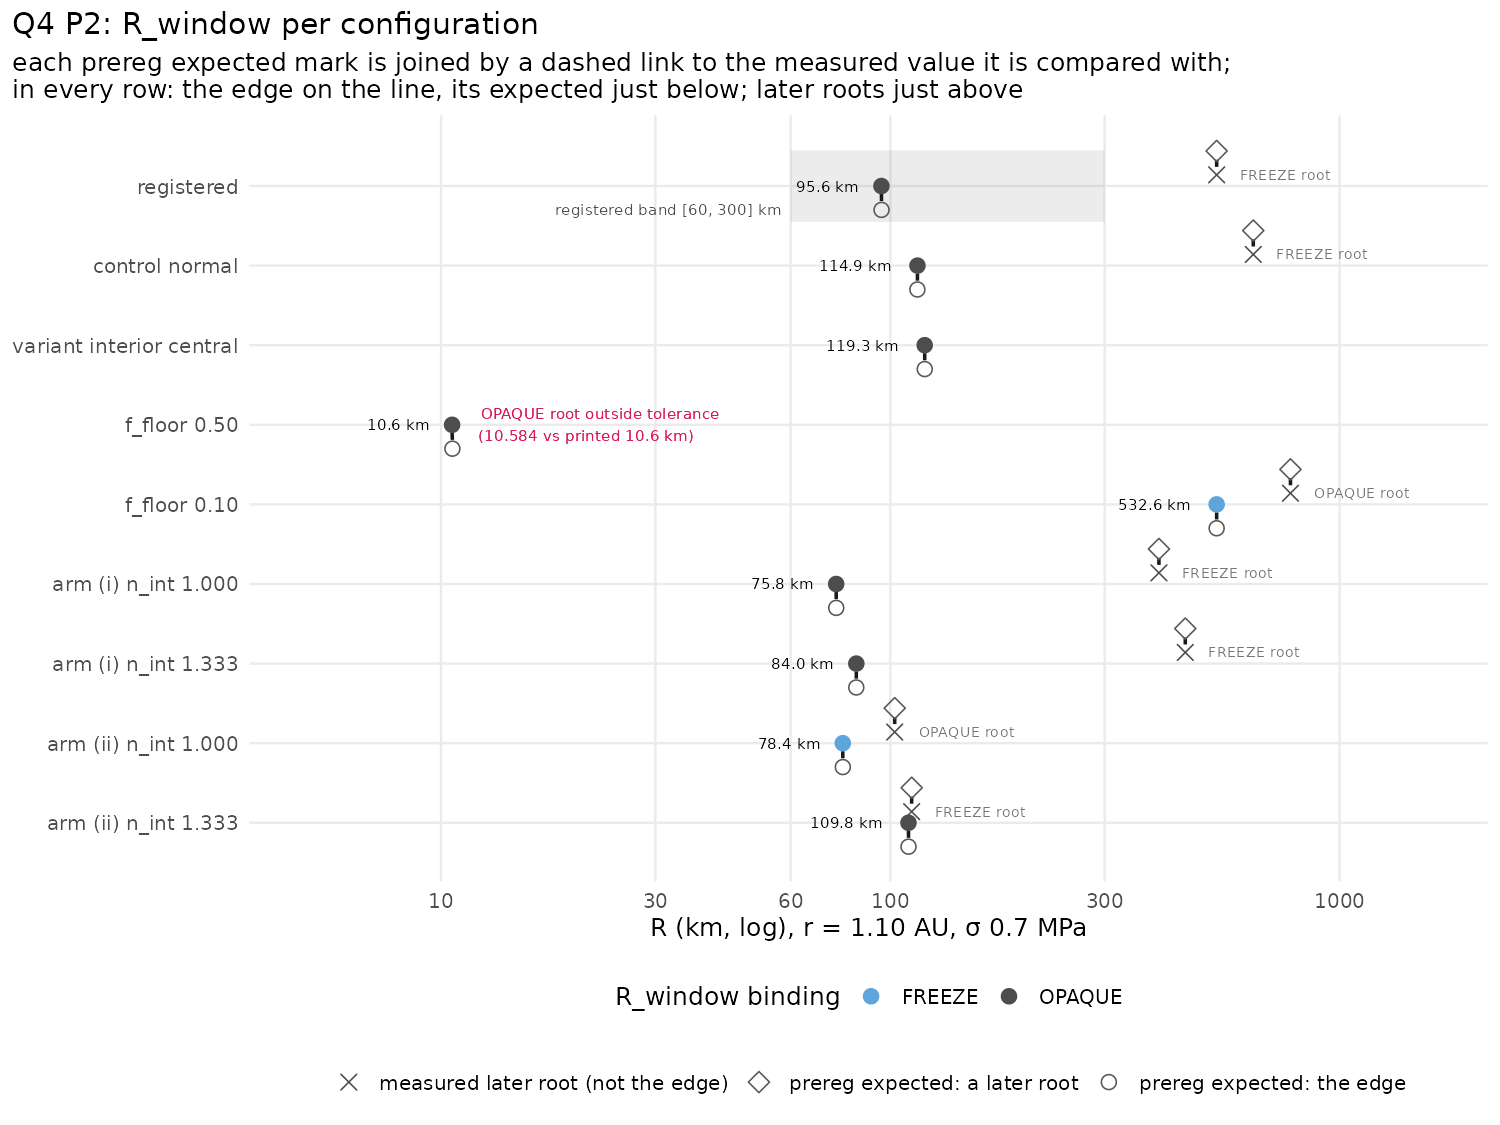
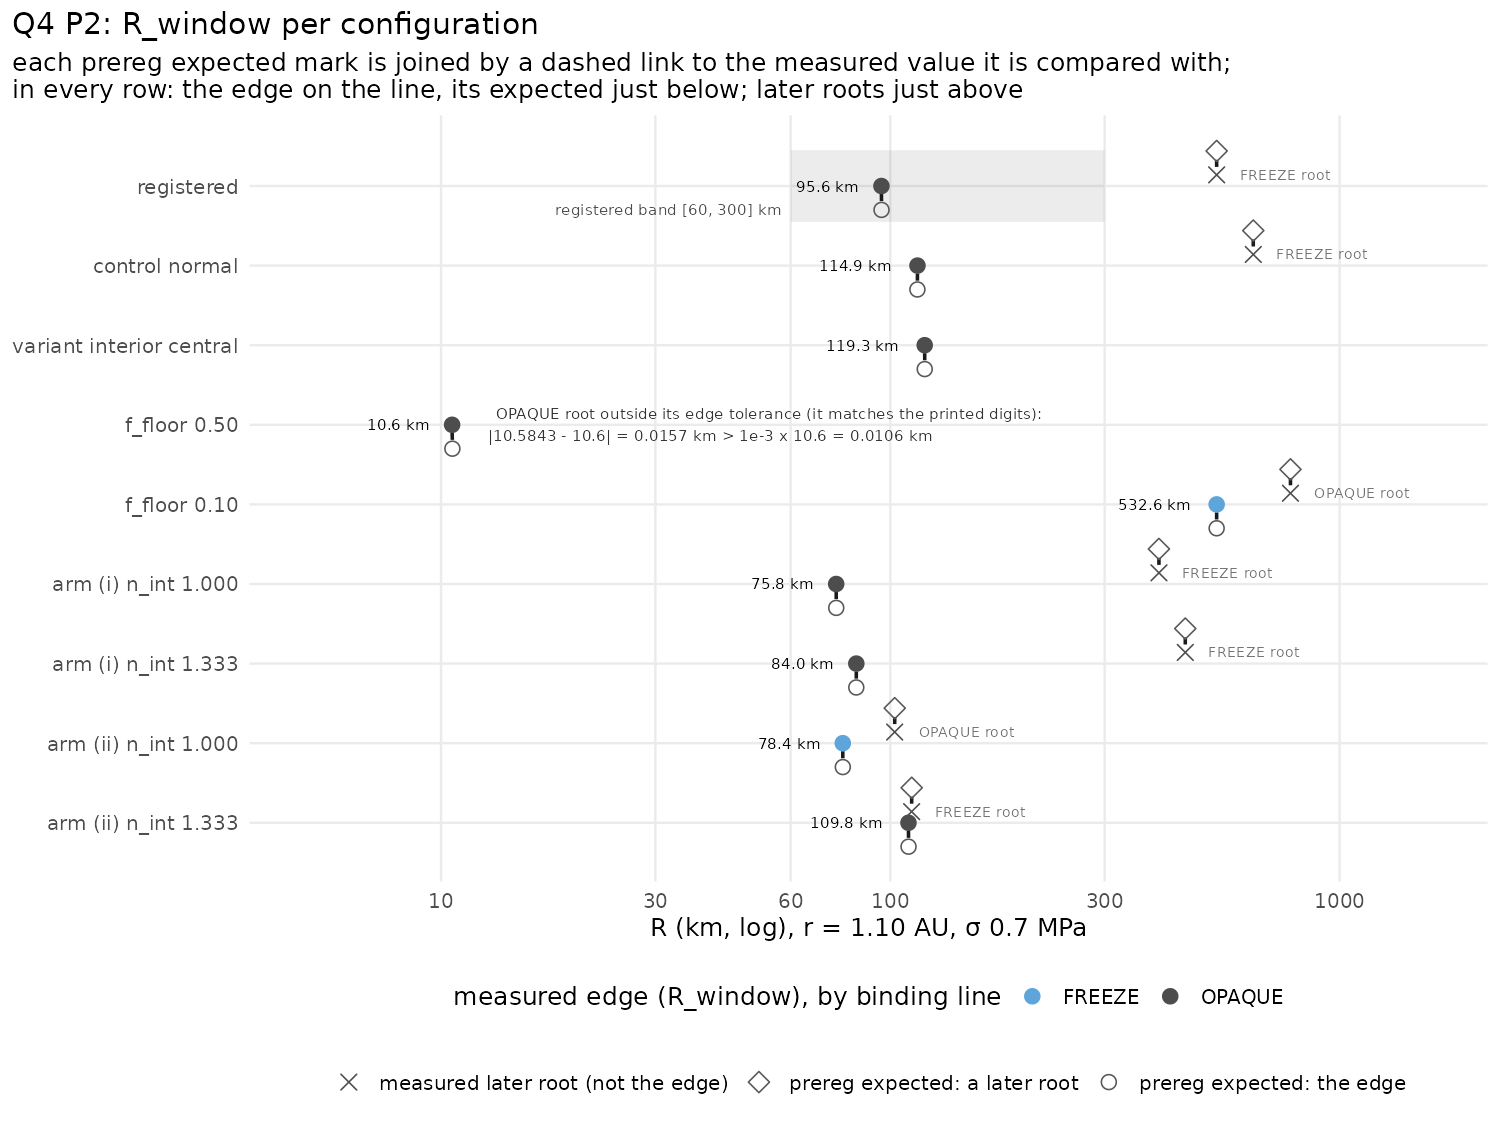
polish(critic round 5): Q4 P1 chart text >= 12 px and clear of the band; P2 tolerance note states its rule
Q4 chart (web/verdict.js drawQ4Band): all text 13 units (13.2 px rendered at the smoke
viewport), viewBox 400x176, measured values in a label column right of the band with dashed
leaders, so no label straddles a band edge. New smoke checks: every #q4-band text >= 12 px
rendered; no text vertically beside the band crosses its left/right edge. Seen failing on
fa51f01: fonts 10.1-11.2 px (all 11 texts); the three sigma labels crossed a band edge.

P2: the f_floor 0.50 note now prints the rule (run.py / RESULTS.md: within_tol = |delta| <=
edge_R_rel 1e-3 x expected): |10.5843 - 10.6| = 0.0157 km > 1e-3 x 10.6 = 0.0106 km, and says
it matches the printed digits; neutral annotation_colour from theme.R. It was drawn twice (the
uncompared R_window row fell into `bad`); now once. Colour legend titled "measured edge".

diff --git a/web/verdict.js b/web/verdict.js
@@ -391,7 +391,10 @@
       svg.appendChild(n);
       return n;
     }
-    var X0 = 1.1, X1 = 1.35, L = 30, Rt = 385, TOP = 22, BOT = 88;
+    // text >= 12 px rendered at the page width (smoke asserts it); dot labels sit in a column
+    // right of the band, so none straddles a band edge
+    var FS = 13, X0 = 1.1, X1 = 1.35, L = 24, Rt = 300, TOP = 34, ROW = 26, BOT = TOP + 12 + 3 * ROW;
+    svg.setAttribute("viewBox", "0 0 400 " + (BOT + 52));
     var x = function (r) { return L + ((r - X0) / (X1 - X0)) * (Rt - L); };
     var defs = mk("defs", {});
     var pat = document.createElementNS(NS, "pattern");
@@ -405,22 +408,24 @@
     var b = Q4_RESULT.P1_band_au;
     mk("rect", { id: "q4-band-rect", x: x(b[0]), y: TOP, width: x(b[1]) - x(b[0]), height: BOT - TOP,
       fill: "url(#q4hatch)", stroke: "#8a8378", "stroke-dasharray": "4 3", "stroke-width": "1" });
-    mk("text", { id: "q4-band-label", x: (x(b[0]) + x(b[1])) / 2, y: TOP - 6, "text-anchor": "middle",
-      "font-size": "11", fill: "#6b655c" }, "pre-registered [" + b[0] + ", " + b[1] + "] AU (" + Q4_RESULT.P1 + ")");
+    mk("text", { id: "q4-band-label", x: (x(b[0]) + x(b[1])) / 2, y: TOP - 9, "text-anchor": "middle",
+      "font-size": FS, fill: "#6b655c" }, "pre-registered [" + b[0] + ", " + b[1] + "] AU (" + Q4_RESULT.P1 + ")");
+    var LX = Math.max(Rt, x(b[1])) + 10; // the label column
     Q4_RESULT.r_close_au.forEach(function (r, i) {
-      var y = TOP + 14 + i * 20;
-      mk("circle", { "data-mark": "q4-measured", cx: x(r), cy: y, r: 4, fill: "#1565C0" });
-      mk("text", { x: x(r) + 8, y: y + 4, "font-size": "11", fill: "#1f1f1f" },
-        "σ " + Q4_RESULT.sigma_MPa[i] + " MPa: " + r.toFixed(4) + " AU");
+      var y = TOP + 6 + ROW / 2 + i * ROW;
+      mk("line", { x1: x(r) + 5, y1: y, x2: LX - 4, y2: y, stroke: "#b5b0a6", "stroke-dasharray": "2 3" });
+      mk("circle", { "data-mark": "q4-measured", cx: x(r), cy: y, r: 4.5, fill: "#1565C0" });
+      mk("text", { x: LX, y: y + 4.5, "font-size": FS, fill: "#1f1f1f" },
+        "σ " + Q4_RESULT.sigma_MPa[i] + ": " + r.toFixed(4));
     });
     mk("line", { x1: L, y1: BOT, x2: Rt, y2: BOT, stroke: "#9a948b" });
     [1.1, 1.15, 1.2, 1.25, 1.3, 1.35].forEach(function (t) {
       mk("line", { x1: x(t), y1: BOT, x2: x(t), y2: BOT + 4, stroke: "#9a948b" });
-      mk("text", { x: x(t), y: BOT + 16, "text-anchor": "middle", "font-size": "10", fill: "#5d5d5d" },
+      mk("text", { x: x(t), y: BOT + 19, "text-anchor": "middle", "font-size": FS, fill: "#5d5d5d" },
         t.toFixed(2));
     });
-    mk("text", { x: (L + Rt) / 2, y: BOT + 30, "text-anchor": "middle", "font-size": "11", fill: "#5d5d5d" },
-      "r (AU): measured r_close, model output");
+    mk("text", { x: 4, y: BOT + 42, "font-size": FS, fill: "#5d5d5d" },
+      "r (AU): measured r_close; σ in MPa");
     var v = $("q4-verdict");
     v.textContent = "P1 " + Q4_RESULT.P1 + " (binding FREEZE) · P2 " + Q4_RESULT.P2 +
       " (R_window " + Q4_RESULT.R_window_km.toFixed(1) + " km, OPAQUE)";

diff --git a/web/index.html b/web/index.html
@@ -244,7 +244,7 @@
             </table>
             <p class="note">Edges take <span id="v-edge-ms"></span> ms to compute; they refresh once input stops.</p>
             <h2 style="margin-top: 14px">Q4 PREDICTION 1: WHERE THE WINDOW CLOSES (R 10 km)</h2>
-            <svg id="q4-band" viewBox="0 0 400 120" role="img" aria-labelledby="q4-band-cap"></svg>
+            <svg id="q4-band" viewBox="0 0 400 176" role="img" aria-labelledby="q4-band-cap"></svg>
             <p class="note" id="q4-band-cap">Hatched: the pre-registered band for r<sub>close</sub>(10 km, σ),
               written before the run. Dots: the measured edge per σ from the committed run
               (<code>experiments/q4_vessel/RESULTS.md</code>), not recomputed here.

diff --git a/tools/smoke_page.py b/tools/smoke_page.py
@@ -806,6 +806,20 @@ def exercise_q4_band(page, label: str) -> None:
     inside = [m["x0"] <= d["x"] <= m["x1"] for d in m["dots"]]
     check(inside == [True] * 3 if want.get("P1") == "HELD" else not all(inside),
           f"[{label}] measured marks sit where the verdict says relative to the band: {inside}")
+    # critic round 5: every text >= 12 rendered px; no text straddles the band's left/right edge
+    t = page.evaluate(
+        """() => { const svg = document.getElementById('q4-band'); svg.scrollIntoView({block: 'center'});
+                  const k = svg.getBoundingClientRect().width / svg.viewBox.baseVal.width;
+                  const rb = document.getElementById('q4-band-rect').getBoundingClientRect();
+                  return { x0: rb.left, x1: rb.right, y0: rb.top, y1: rb.bottom, texts: [...svg.querySelectorAll('text')].map(e => {
+                    const b = e.getBoundingClientRect();
+                    return {t: e.textContent.slice(0, 24), px: parseFloat(getComputedStyle(e).fontSize) * k, l: b.left, r: b.right, t0: b.top, t1: b.bottom}; }) }; }"""
+    )
+    small = [(x["t"], round(x["px"], 1)) for x in t["texts"] if x["px"] < 12]
+    check(t["texts"] and not small, f"[{label}] Q4 band: every text >= 12 px rendered: {small}")
+    cross = [x["t"] for x in t["texts"] if any(x["l"] + 2 < e < x["r"] - 2 for e in (t["x0"], t["x1"]))
+             and x["t1"] > t["y0"] and x["t0"] < t["y1"]]  # text beside the band, not the title/axis
+    check(not cross, f"[{label}] Q4 band: no label runs across a band edge: {cross}")
 
 
 def main() -> int:
